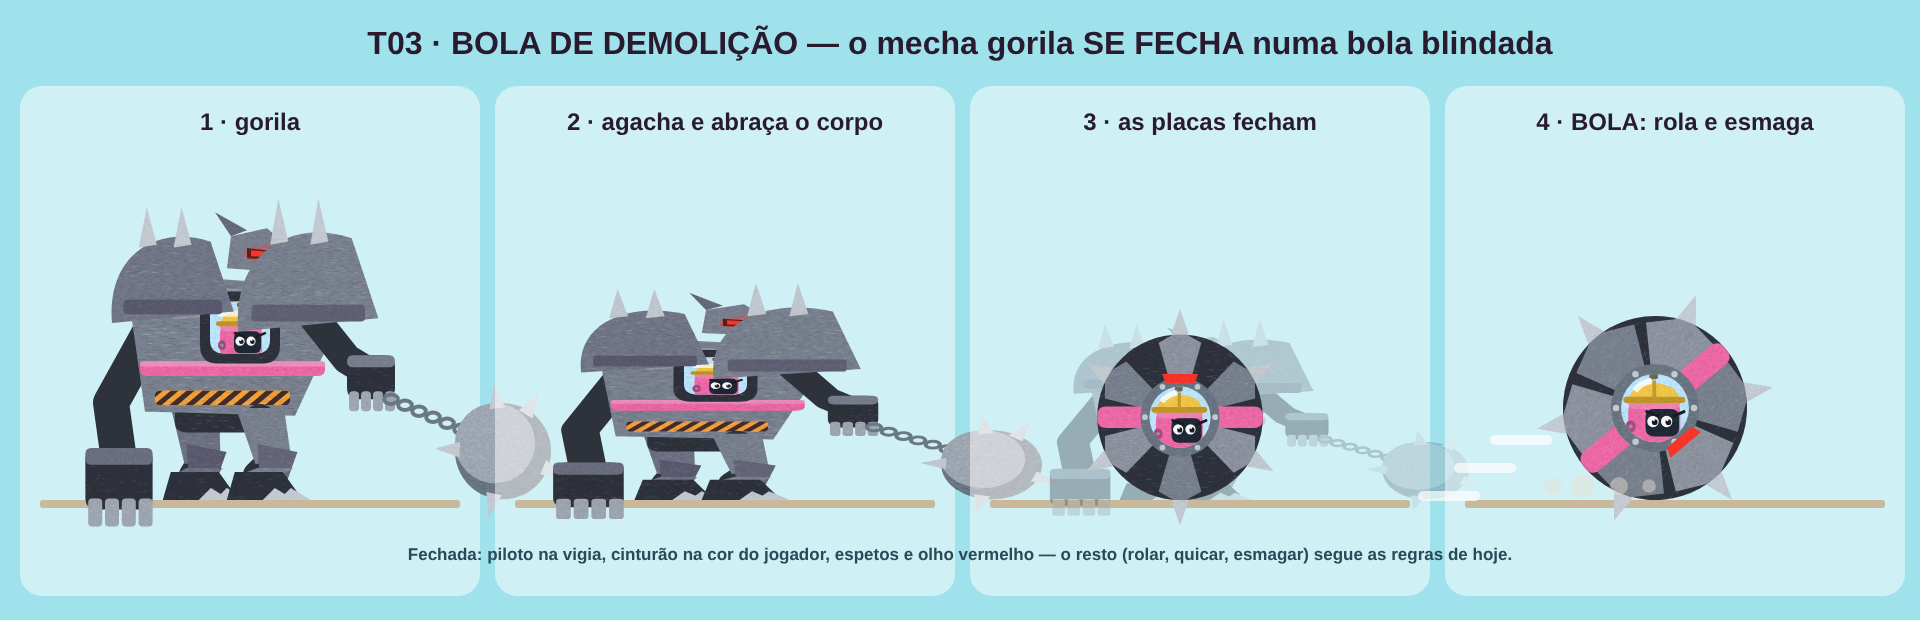
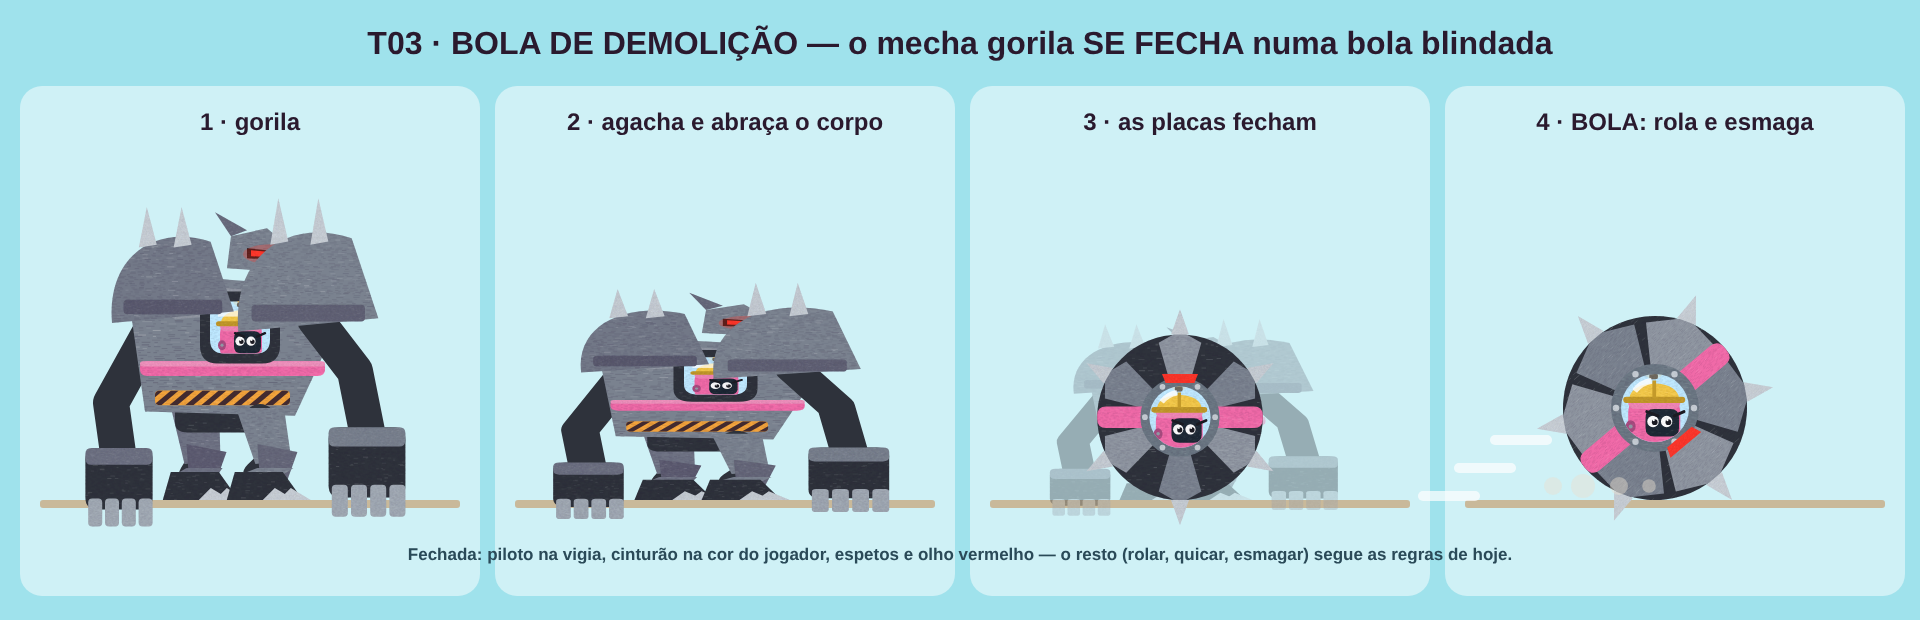
A29: armaduras = mechas pilotados ameaçadores; Bola sem corrente, se fecha em esfera; regra no manual
Claude-Session: https://claude.ai/code/session_017desNJLabnbh98EwrZ9vQj

Changed region(s): [[0.1562, 0.521, 0.3125, 0.8581], [0.4062, 0.6129, 0.5625, 0.8274], [0.6562, 0.6435, 0.75, 0.8274]]

diff --git a/art/src/robos/armaduras_conceito.py b/art/src/robos/armaduras_conceito.py
@@ -159,11 +159,9 @@ def empilhadeira(col):
 
 # ---------------------------------------------------------------- T03 BOLA: mecha de demolição, punho = BOLA de aço na corrente (e se enrola numa bola para rolar)
 def bola(col):
+    """Gorila de punhos enormes: a arma é ELE MESMO virar bola (sem corrente — A29)."""
     casco = "#7a828f"
-    arma = f'<path d="M34,-106 L50,-86 L60,-80" stroke="{DARK}" stroke-width="15" fill="none" stroke-linecap="round" stroke-linejoin="round"/>' + punho(62, -78, casco, 1.0)
-    arma += "".join(f'<ellipse cx="{72 + i * 7}" cy="{-66 + i * 3}" rx="3.4" ry="2.4" fill="none" stroke="{STEEL_D}" stroke-width="2"/>' for i in range(6))
-    arma += E(128, -40, 24, 24, STEEL_D, k=0.6) + E(124, -44, 20, 20, STEEL, k=0.3, light=STEEL_L)
-    arma += "".join(P_([(128 + math.cos(a) * 22, -40 + math.sin(a) * 22), (128 + math.cos(a + 0.18) * 34, -40 + math.sin(a + 0.18) * 34), (128 + math.cos(a + 0.36) * 22, -40 + math.sin(a + 0.36) * 22)], STEEL_L, k=0.1) for a in (-1.2, 0.2, 1.6, 3.0, 4.4))
+    arma = f'<path d="M34,-106 L54,-80 L60,-50" stroke="{DARK}" stroke-width="18" fill="none" stroke-linecap="round" stroke-linejoin="round"/>' + punho(60, -36, casco, 1.6)
     return mecha(col, casco, arma, H=40, tw=1.25, th=1.05, gorila=True, ombro=1.45, perna=0.8)   # GORILA: punho no chão
 
 
@@ -196,7 +194,7 @@ ARMAS = [("T01 · FORNALHA (baixa e larga)", fornalha, "#4f86d9"), ("T02 · EMPI
 REGRAS = ["1  TODA armadura é um MECHA humanoide (2 pernas, 2 braços), nunca o veículo: o robô PILOTA de dentro, cabeça visível no COCKPIT do peito.",
           "2  FAIXA NA COR DO JOGADOR sempre no mesmo lugar do casco: quem é quem em 1 segundo.",
           "3  AMEAÇA: ~2× o robô, ombreiras com espetos, cabecinha com FENDA DE OLHO VERMELHA, pés com garras — e SILHUETA PRÓPRIA (baixo/largo, alto/magro, gorila…).",
-          "4  O tema da máquina vira o BRAÇO-ARMA da frente (lança-chamas, garfo, bola na corrente, broca, maçarico) e um detalhe nas costas/peito.",
+          "4  O tema da máquina vira o BRAÇO-ARMA da frente (lança-chamas, garfo, broca, maçarico) — ou o CORPO todo (a Bola se fecha numa esfera).",
           "5  Papel e giz, sem contorno; brasa, fumaça ou faísca dizem que está LIGADO. Mesmas regras de jogo de hoje (só muda o visual)."]
 
 

diff --git a/docs/revisoes/reformulacao_derruba.md b/docs/revisoes/reformulacao_derruba.md
@@ -36,6 +36,7 @@ Projetos de Demolição) — esta última documentada para o futuro.
 | A26 | Pausa: sair da luta (reiniciar, configurar, selecionar, menu) **pede confirmação**; sair no meio não conta para gangorra nem Projetos. |
 | A27 | **Robôs reformulados na geometria do Ultimate Chicken Horse** (2026-11-27, "esse é o caminho"): cabeça grande de capacete-tela com olhos grandes, corpinho de pera, membros finos que dobram em curva, corpo inteiro que achata/estica, cabeça e acessórios com atraso (molas). Papel e giz. Fonte: `art/src/robos/robo_uch.py`. Cada robô terá características, arma e jeito de se mover próprios (sem vantagem de velocidade/força). |
 | A28 | **Guindaste e Escavadeira refeitos do zero** (2026-11-27, prancha `art/out/robos_v2/refazer_ge.png`): Guindaste = **G2 "Lança"** (olhão-lente gigante, empunha a lança treliçada com gancho pendurado na ponta; estocada de longe, pesado = lança tomba); Escavadeira = **E2 "Trator"** (lâmina de trator no rosto, esteira na cintura, braço-caçamba). Fonte: `elenco_uch.py`; animações `anim_guinda.py`/`anim_escava.py`. |
+| A29 | **Conceito visual das ARMADURAS = MECHAS PILOTADOS AMEAÇADORES** (2026-11-27, vale para todas as atuais e futuras; prancha `art/out/robos_v2/armaduras_v2_final.png`, fonte `art/src/robos/armaduras_conceito.py`): mecha humanoide (nunca o veículo), robô pilota com a cabeça visível no cockpit do peito; faixa na cor do jogador; ~2× o robô, ombreiras com espetos, fenda de olho vermelha, pés com garras; **silhueta própria** por armadura (Fornalha baixa/larga, Empilhadeira alta/ereta, Bola gorila, Broca alta/magra, Soldador corcunda); o tema vira o braço-arma ou o corpo todo. **T03 Bola: gorila de punhos enormes SEM corrente, que se fecha numa bola blindada** (piloto na vigia). Regras de jogo não mudam. Implementação no jogo pendente. |
 | A12 | Online, contas e sincronização: **não implementar**; só desenhar os dados para o futuro (`CLAUDE.md` continua proibindo online). |
 | A14 | **EVENTO × PERIGO DA CENA (2026-11-26):** evento é **do mapa** e selecionável; tem de acontecer em **todas as cenas** do mapa (ex.: um terremoto vale nas 3). O que é específico de uma cena é **perigo/mecanismo da cena** (ex.: a enchente da Fundação, a serra do Térreo), não evento. Os antigos `V#` viram perigos da cena. |
 | A15 | Spells na tela de seleção: **mínimo 4, sem máximo** (2026-11-26). |

diff --git a/docs/ESTADO.md b/docs/ESTADO.md
@@ -22,6 +22,7 @@ Repositórios (GitHub privado, ramo `main`): `joao992001/bota-abaixo` = versão 
 **FEITO (2026-11-27): os 5 robôs A27 estão no jogo; Guindaste e Escavadeira REFEITOS (A28, G2/E2) com 15 animações em vídeo (`out/videos/guinda_novo.mp4`, `escava_novo.mp4`).** No jogo as poses vêm de `elenco.py` POSES/EXTRA (o motor do jogo ainda não roda as animações dos vídeos). (ids mantidos: picareta=Guindaste, chave=Solda, britadeira=Brita,
 pa=Escavadeira; cabeças em camadas em `elenco_uch.py`, ligação em `elenco.py` `_uch_*`). Skins K1–K5 apagadas (refazer).
 Vídeo: `--modelos=1,2,3,4` no `--video`. PRÓXIMO: ajustar poses/ferramentas que o usuário apontar → telas (passo 3) → `.exe`.
+**A29 (aprovado): armaduras = mechas pilotados ameaçadores** (prancha `armaduras_v2_final.png`). PRÓXIMO: levar as 5 armaduras para o jogo (`RobotVis.ARMOR_SETS`/`FORM_TOOLS` em `robot_visual.gd`).
 (Histórico do passo 1, já concluído:)
 Plano (aprovado: "1"): trocar o Marretão do gerador antigo `art/src/robos/elenco.py` pelo design A27 — JÁ FEITO no código
 (`t_marretao/h_marretao/tool_marreta` usam `robo_uch.tronco`, `robo_uch.cabeca_L` e a marreta detalhada; CHARS/POSES/EXTRA/

diff --git a/docs/manuais/derruba/spell.md b/docs/manuais/derruba/spell.md
@@ -80,3 +80,7 @@ Armaduras (Transformação) são **raras** nas caixas normais (peso 7) — o mom
 - Jetpack em pulsos → voo segurando com combustível e inclinação.
 - Gancho que puxa pouco → puxa quase tudo (robô, caixa, bomba; estrutura puxa você).
 - Alcance curto (disco, bumerangue) → mais alcance (6).
+
+
+## Visual das armaduras (transformações T##) — A29, obrigatório para as novas
+Toda armadura é um **mecha humanoide pilotado e ameaçador**: cabeça do piloto visível no cockpit do peito; faixa na cor do jogador no mesmo lugar do casco; ~2× o robô; ombreiras com espetos, fenda de olho vermelha, pés com garras; **silhueta própria** (não repetir corpo); o tema vira o braço-arma da frente ou o corpo todo; papel e giz, brasa/fumaça/faísca quando ligado. Referência: `art/out/robos_v2/armaduras_v2_final.png` (gerador `art/src/robos/armaduras_conceito.py`, função `mecha(...)`).
